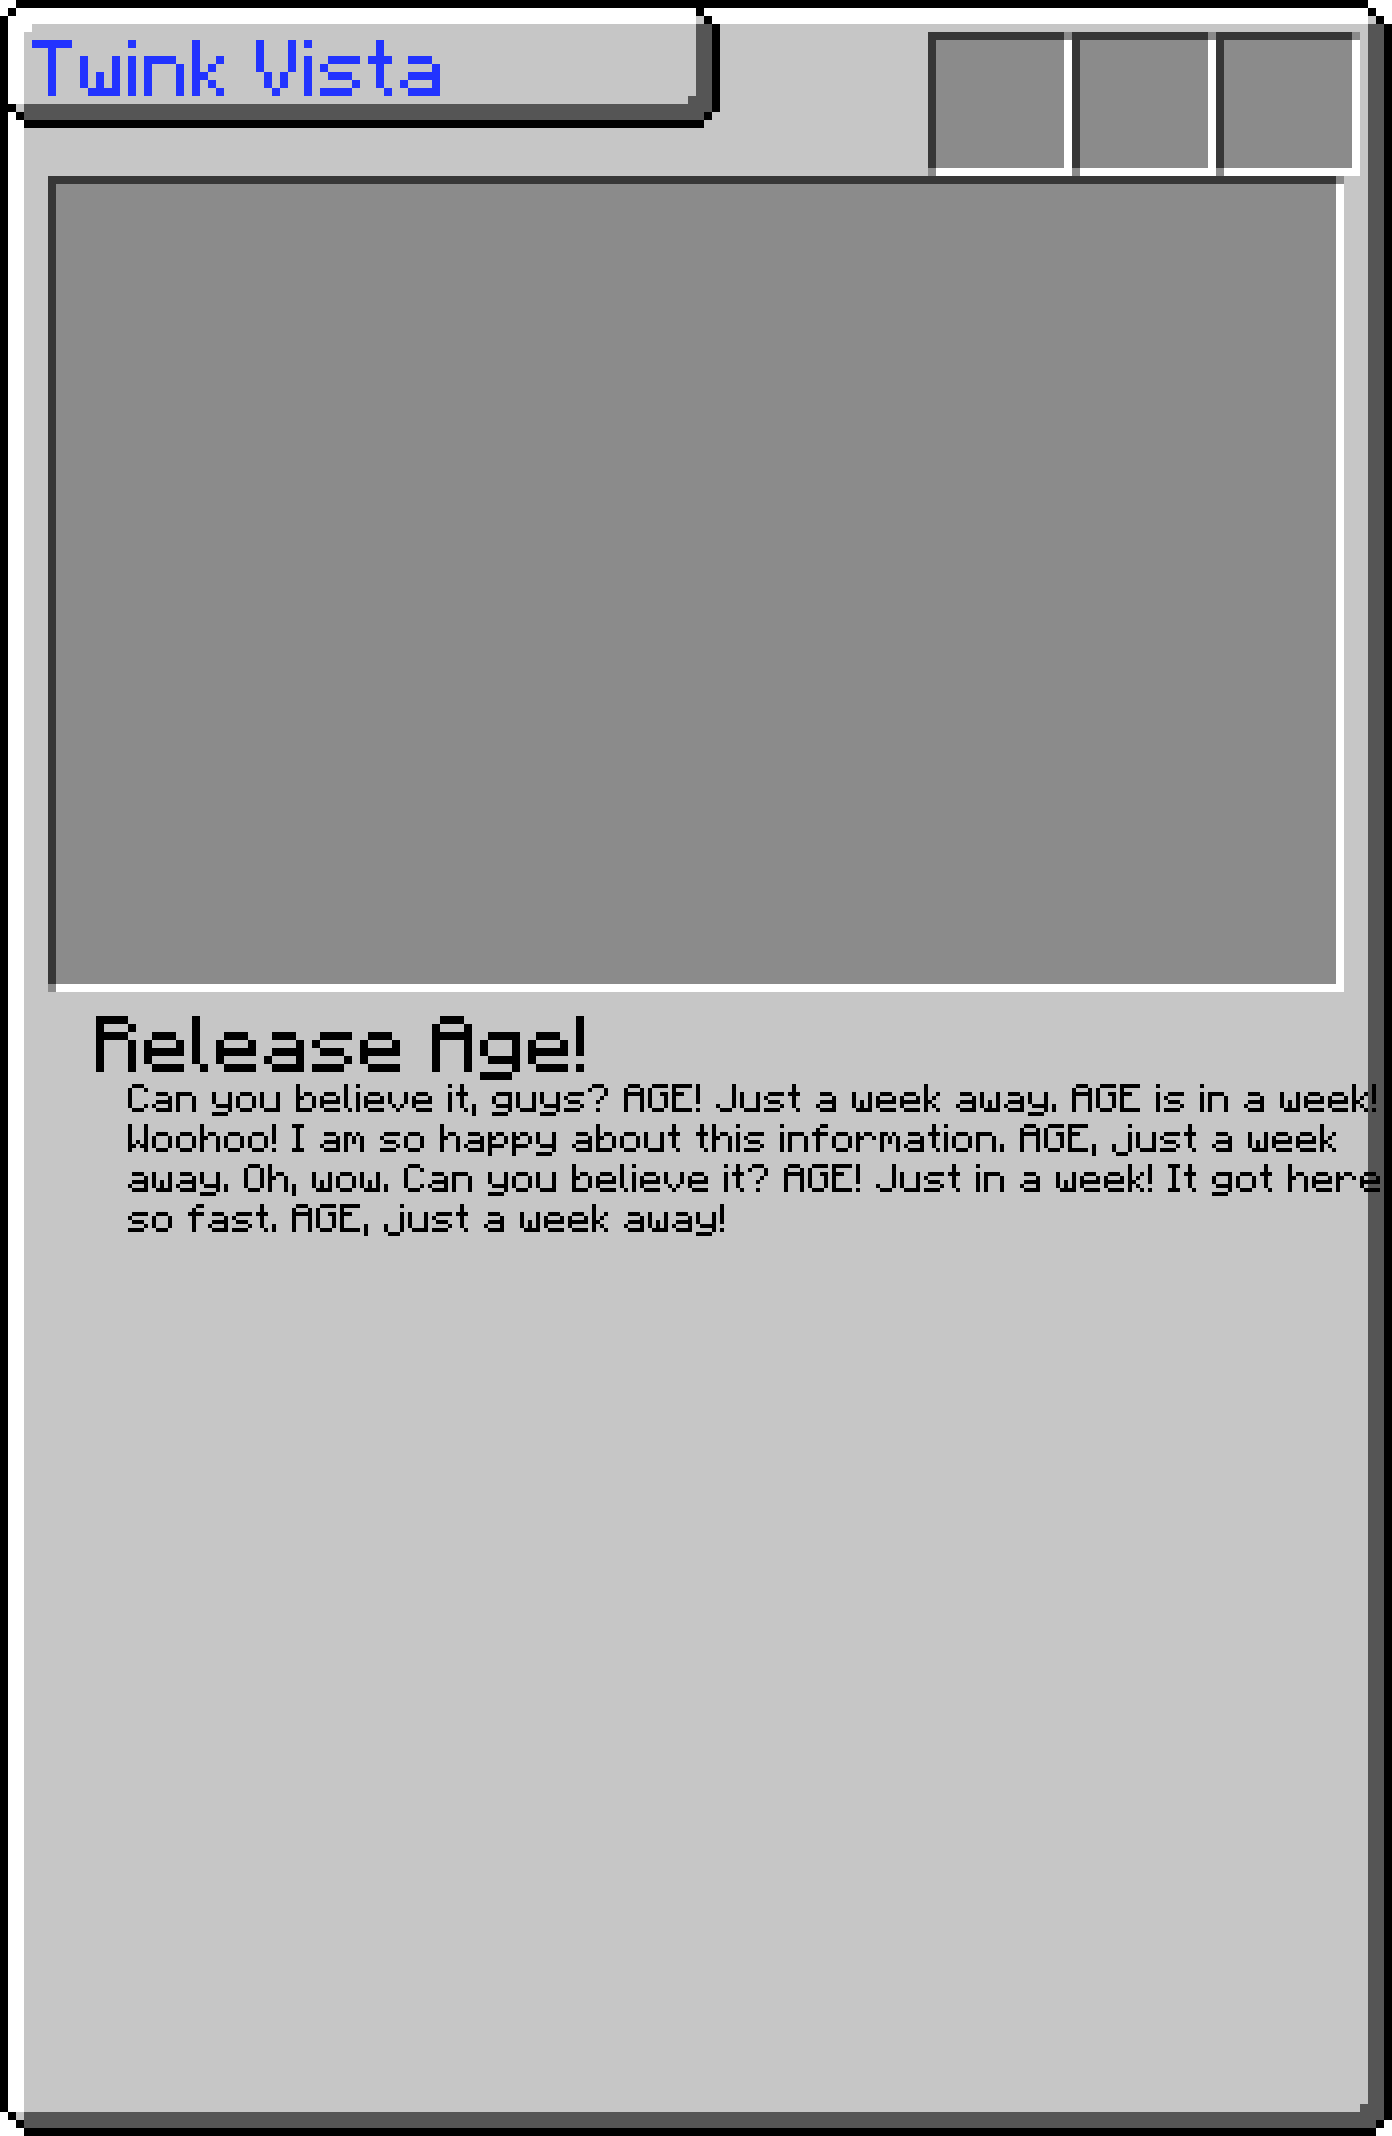
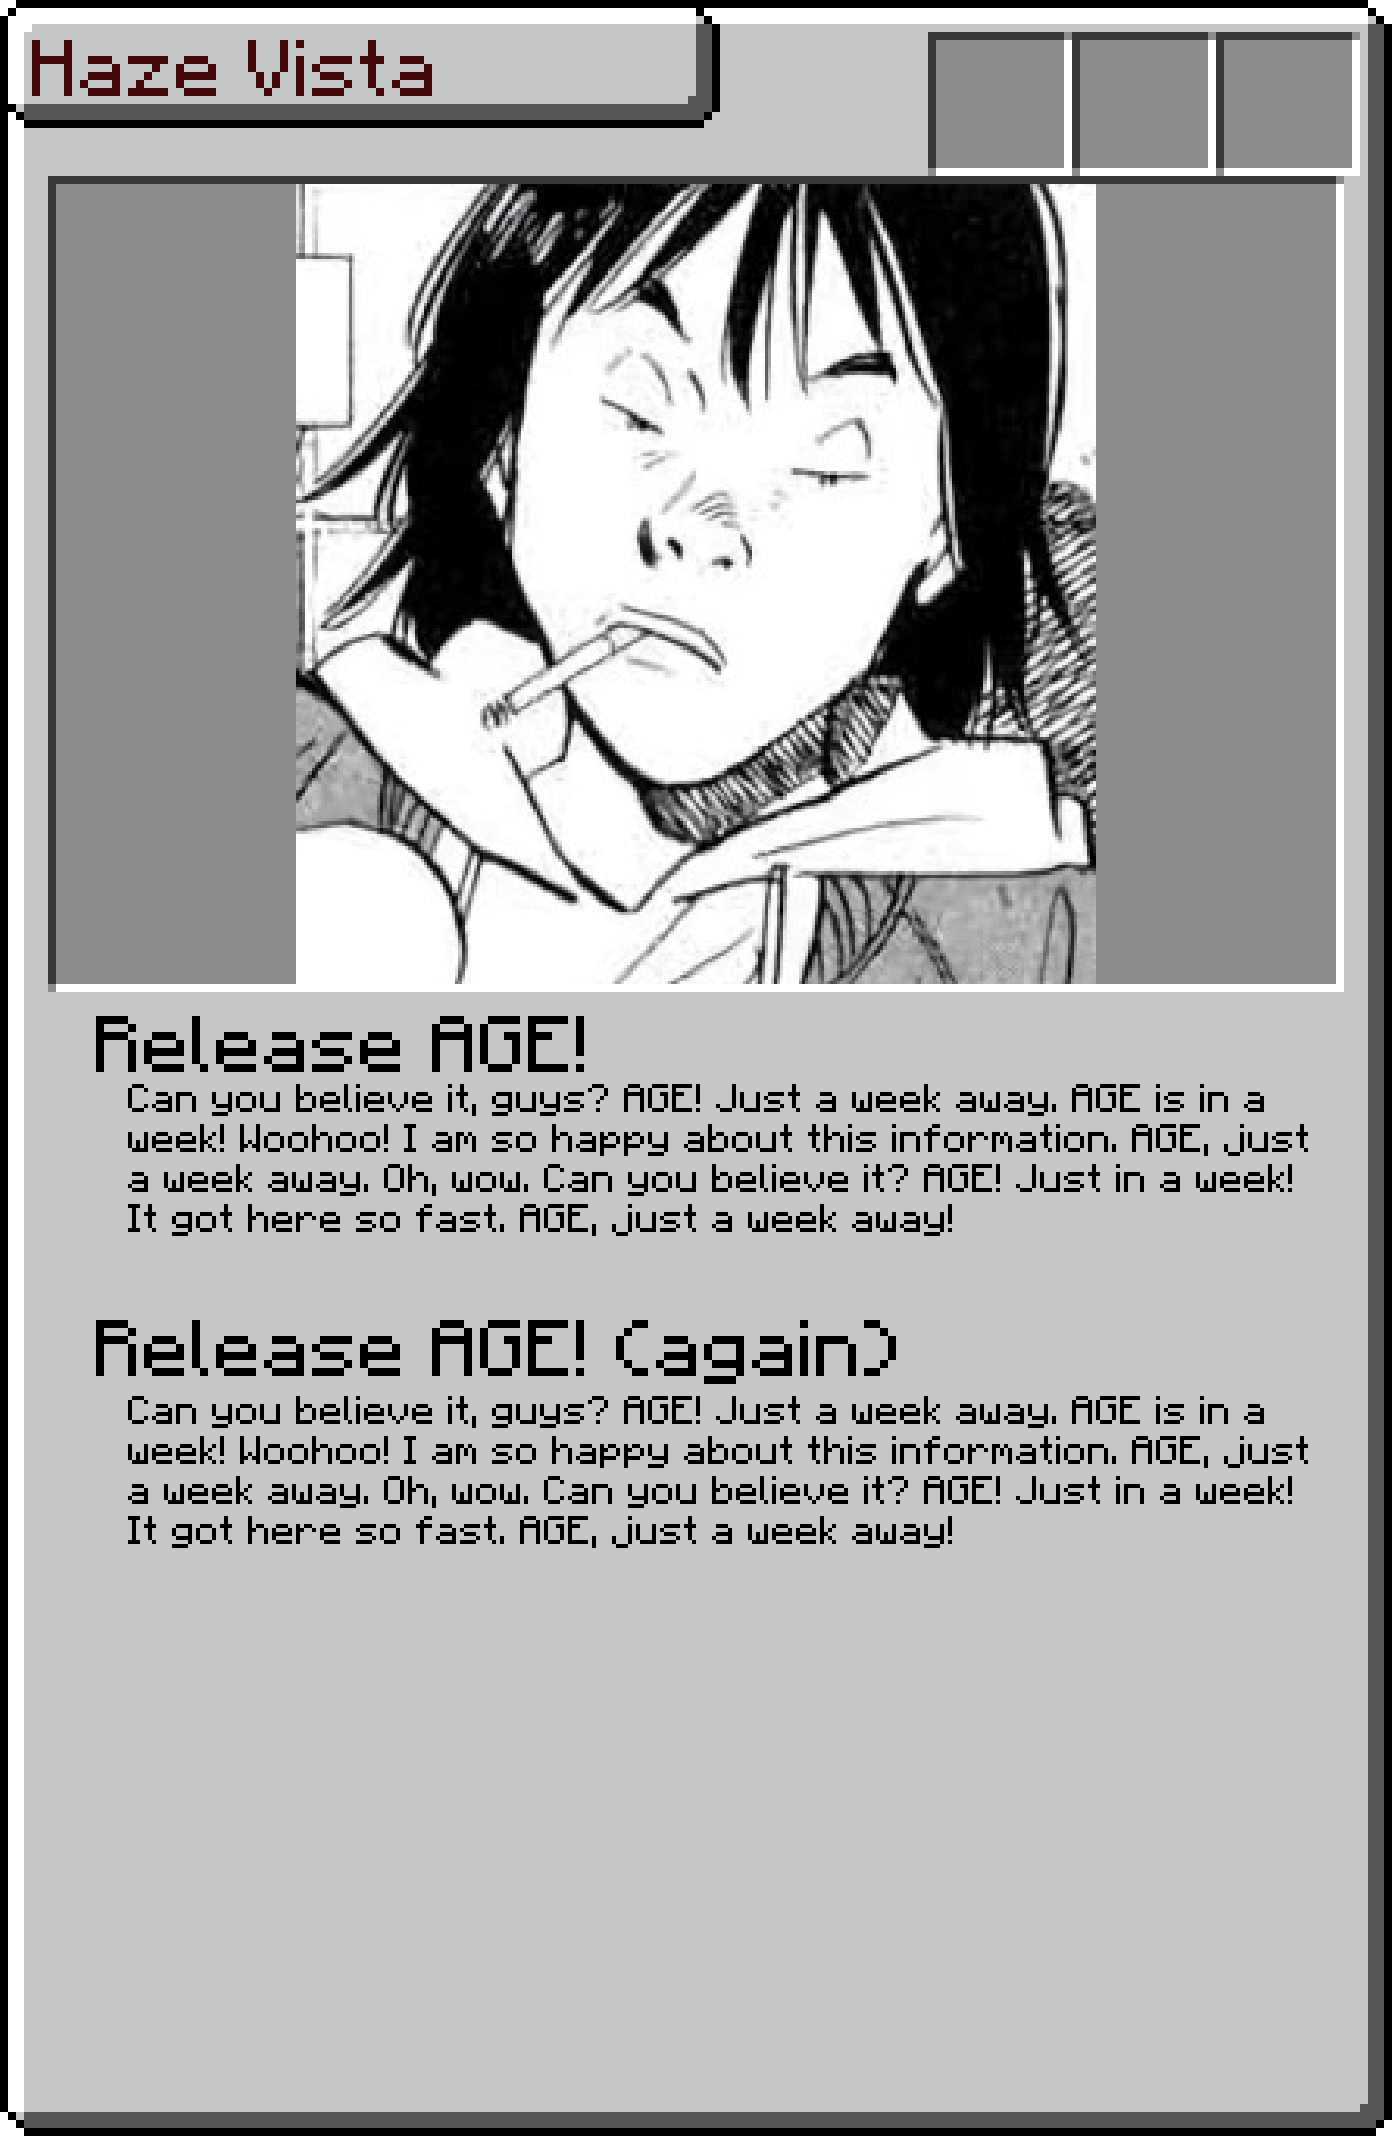
card can now be defined in pure json

Changed region(s): [[0.0309, 0.0, 0.9885, 0.5871], [0.0618, 0.618, 0.9267, 0.7416]]

diff --git a/card.py b/card.py
@@ -17,8 +17,9 @@ class BaseCard():
             offset = (0, 0)
             if "frame" in field:
                 base, offset = gui_builder.create_base_gui(*field["dimensions"], field["frame"])
-                self.image_field_dimensions[field["name"]] = field["dimensions"]
                 self.image.paste(base, tuple(field["position"]), base)
+            if "dimensions" in field:
+                self.image_field_dimensions[field["name"]] = field["dimensions"]
             field["position"] = [x + y for x, y in zip(field["position"], offset)]
             self.fields[field["name"]] = field["position"]
 
@@ -38,17 +39,15 @@ class BaseCard():
         if wrapping:
             width = self.image_field_dimensions[name][0] if name in self.image_field_dimensions else (self.image.width - self.fields[name][0])
             box_width = width - padding[0]
-            print(box_width)
             box_width = int(box_width / (self.scale * scale))
-            print(box_width)
         else:
             box_width = None
         
         if isinstance(field, str):
             field = text.minecraft(field, color, wrapping, box_width)
-
+        field = field.convert("RGBA")
         if not literal_scale:
-            scale *= im.scale
+            scale *= self.scale
             padding = [x * 8 for x in padding]
         if scale != 1:
             field = field.resize((int(scale * field.width), int(scale * field.height)), resample = Image.BOX)
@@ -73,14 +72,26 @@ class Card(BaseCard):
         with open(f"{DIR}/cards/base/{base_card}.json", "r") as file:
             base_card: dict = json.load(file)
         super().__init__(base_card)
+        if "scale" in card_info:
+            self.resize(card_info["scale"])
+        for field in card_info["fields"]:
+            if "image" in field:
+                with Image.open(f"{DIR}/assets/{field["image"]}") as image:
+                    field["field"] = image.copy()
+                field.pop("image", None)
+            self.set_field(**field)
 
-im = Card({"base":"test_card"})
-im.resize(8)
-im.set_field("title", "Twink Vista", color=(34, 51, 255))
-im.set_field("move_1", "Release Age!")
-# im.set_field("move_2", "idk what to write here")
-im.set_field("move_description_1", "Can you believe it, guys? AGE! Just a week away. AGE is in a week! Woohoo! I am so happy about this information. AGE, just a week away. Oh, wow. Can you believe it? AGE! Just in a week! It got here so fast. AGE, just a week away!", padding=(4, -5), scale=0.5)
-# im.set_field("move_description_2", "age release when\nim waiting!!", padding=(5, -5), scale = 0.5)
-
+#im = Card({"base":"test_card"})
+# im.resize(8)
+# im.set_field("title", "Haze Vista", color=(68, 10, 10))
+# with Image.open(f"{DIR}/gui/haze.png") as file:
+#     im.set_field("image", file, scale = 0.391, padding=(30, 0))
+# im.set_field("move_1", "Release Age!")
+# im.set_field("move_2", "Release Age (again)!")
+# im.set_field("move_description_1", "Can you believe it, guys? AGE! Just a week away. AGE is in a week! Woohoo! I am so happy about this information. AGE, just a week away. Oh, wow. Can you believe it? AGE! Just in a week! It got here so fast. AGE, just a week away!", padding = (4, -5), scale = 0.5)
+# im.set_field("move_description_2", "Can you believe it, guys? AGE! Just a week away. AGE is in a week! Woohoo! I am so happy about this information. AGE, just a week away. Oh, wow. Can you believe it? AGE! Just in a week! It got here so fast. AGE, just a week away! Can you believe it, guys? AGE! Just a week away. AGE is in a week! Woohoo! I am so happy about this information. AGE, just a week away. Oh, wow. Can you believe it? AGE! Just in a week! It got here so fast. AGE, just a week away! Can you believe it, guys? AGE! Just a week away. AGE is in a week! Woohoo! I am so happy about this information. AGE, just a week away. Oh, wow. Can you believe it? AGE! Just in a week! It got here so fast. AGE, just a week away! Can you believe it, guys? AGE! Just a week away. AGE is in a week! Woohoo! I am so happy about this information. AGE, just a week away. Oh, wow. Can you believe it? AGE! Just in a week! It got here so fast. AGE, just a week away! Can you believe it, guys? AGE! Just a week away. AGE is in a week! Woohoo! I am so happy about this information. AGE, just a week away. Oh, wow. Can you believe it? AGE! Just in a week! It got here so fast. AGE, just a week away!", padding = (4, -5), scale = 0.5)
+with open(f"{DIR}/haze_card.json", "r") as file:
+    card_info = json.load(file)
+im = Card(card_info)
 im.image.save(f"{DIR}/gui.png")
 im.image.show()

diff --git a/text.py b/text.py
@@ -40,7 +40,7 @@ def _render_line(line, box_width) -> Image.Image:
         text_word = _render_word(word)
         if (box_width is not None) and (text_word.width > box_width):
             return text_line
-        if (box_width is not None) and ((text_word.width + text_line.width) > box_width):
+        if (box_width is not None) and ((text_word.width + text_line.width) > (box_width - 4)):
             new_line = _render_line(line[index:], box_width)
             new_text_image = Image.new('RGBA', (box_width, new_line.height + text_line.height), (0, 0, 0, 0))
             new_text_image.paste(text_line, (0, 0), text_line)
@@ -77,6 +77,8 @@ def _render_word(word: list[str]) -> Image.Image:
     return text_image
 
 def _tint_rgb(img: Image.Image, rgb: tuple[int, int, int]) -> Image.Image:
+    if isinstance(rgb, list):
+        rgb = tuple(rgb)
     img = img.convert("RGBA")
     r, g, b, a = img.split()
     rgb_img = Image.merge("RGB", (r, g, b))
